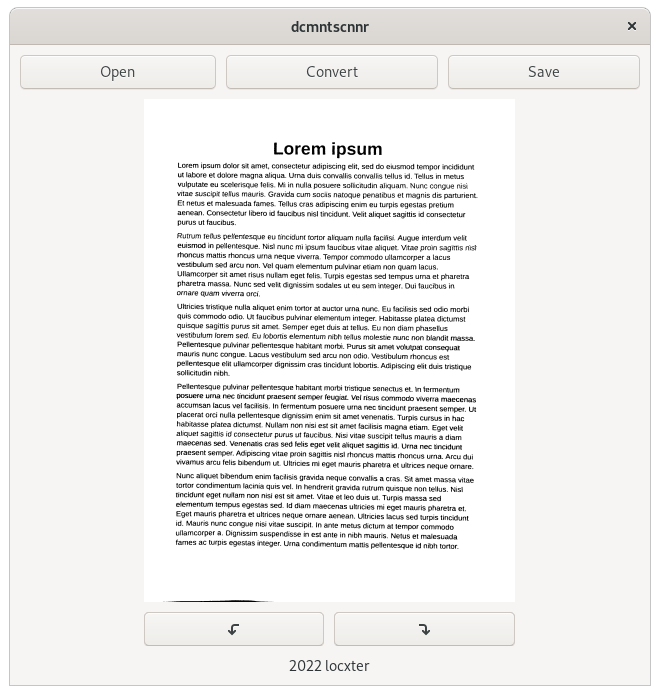
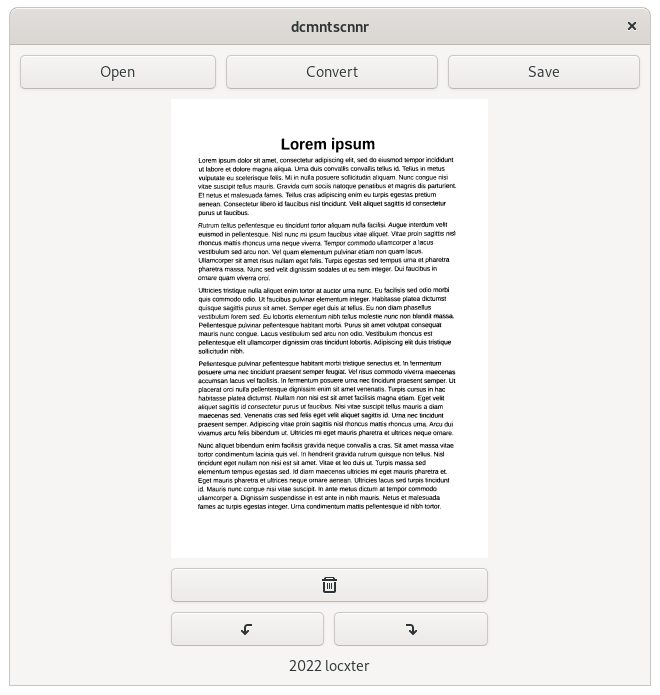
Added to ability to remove images from the queue.

Changed region(s): [[0.2424, 0.1813, 0.7273, 0.7856], [0.4848, 0.8158, 0.5152, 0.8763]]

diff --git a/lib/image-previewer.cpp b/lib/image-previewer.cpp
@@ -1,0 +1,103 @@
+#include "image-previewer.hpp"
+
+// Constructor
+ImagePreviewer::ImagePreviewer() : Gtk::ScrolledWindow() {
+    grid.set_column_spacing(10);
+    grid.set_row_spacing(10);
+    grid.set_halign(Gtk::ALIGN_CENTER);
+    set_policy(Gtk::POLICY_AUTOMATIC, Gtk::POLICY_NEVER);
+    add(grid);
+}
+
+// Getter and setter
+std::vector<Glib::RefPtr<Gdk::Pixbuf>> ImagePreviewer::getPixbufs() {
+    return pixbufs;
+}
+
+void ImagePreviewer::setPixbufs(std::vector<Glib::RefPtr<Gdk::Pixbuf>> pixbufs) {
+    // Clear the grid
+    for (int i = 0; i < pixbufs.size() * 2; i++) {
+        grid.remove_column(i);
+    }
+    drawingAreas.clear();
+    deleteButtons.clear();
+    rotateLeftButtons.clear();
+    rotateRightButtons.clear();
+    moveLeftButtons.clear();
+    moveRightButtons.clear();
+    // Create the grid
+    for (int i = 0; i < pixbufs.size(); i++) {
+        drawingAreas.push_back(Gtk::DrawingArea());
+        deleteButtons.push_back(Gtk::Button());
+        rotateLeftButtons.push_back(Gtk::Button());
+        rotateRightButtons.push_back(Gtk::Button());
+        moveLeftButtons.push_back(Gtk::Button());
+        moveRightButtons.push_back(Gtk::Button());
+        Gtk::Allocation allocation;
+        // Fill the available space
+        drawingAreas[i].signal_draw().connect([=](const Cairo::RefPtr<Cairo::Context>& context) -> bool {
+            int height = this->drawingAreas[i].get_height();
+            float aspectRatio = (float) this->pixbufs[i]->get_width() / this->pixbufs[i]->get_height();
+            Gdk::Cairo::set_source_pixbuf(context, this->pixbufs[i]->scale_simple(std::round(aspectRatio * height), height, Gdk::INTERP_BILINEAR));
+            context->paint();
+            this->drawingAreas[i].set_size_request(std::round(aspectRatio * height), -1);
+            return true;
+        });
+        drawingAreas[i].set_vexpand(true);
+        grid.attach(drawingAreas[i], i * 2, 0, 2);
+        // Delete image when clicked
+        deleteButtons[i].signal_clicked().connect([=]() {
+            std::vector<Glib::RefPtr<Gdk::Pixbuf>> buffer = this->pixbufs;
+            buffer.erase(buffer.begin() + i);
+            this->setPixbufs(buffer);
+        });
+        deleteButtons[i].set_image_from_icon_name("user-trash-symbolic");
+        grid.attach(deleteButtons[i], i * 2, 1, 2);
+        // Rotate the image left when clicked
+        rotateLeftButtons[i].signal_clicked().connect([=]() {
+            this->pixbufs[i] = this->pixbufs[i]->rotate_simple(Gdk::PIXBUF_ROTATE_COUNTERCLOCKWISE);
+            this->grid.queue_draw();
+        });
+        rotateLeftButtons[i].set_image_from_icon_name("object-rotate-left-symbolic");
+        grid.attach(rotateLeftButtons[i], i * 2, 2);
+        // Rotate the image right when clicked
+        rotateRightButtons[i].signal_clicked().connect([=]() {
+            this->pixbufs[i] = this->pixbufs[i]->rotate_simple(Gdk::PIXBUF_ROTATE_CLOCKWISE);
+            this->grid.queue_draw();
+        });
+        rotateRightButtons[i].set_image_from_icon_name("object-rotate-right-symbolic");
+        grid.attach(rotateRightButtons[i], i * 2 + 1, 2);
+        if (i > 0) {
+            // Move the image left when clicked
+            moveLeftButtons[i].signal_clicked().connect([=]() {
+                Glib::RefPtr<Gdk::Pixbuf> buffer = this->pixbufs[i];
+                this->pixbufs.erase(this->pixbufs.begin() + i);
+                this->pixbufs.insert(this->pixbufs.begin() + (i - 1), buffer);
+                this->grid.queue_draw();
+            });
+            moveLeftButtons[i].set_image_from_icon_name("go-previous-symbolic");
+            if (i == pixbufs.size() - 1) {
+                grid.attach(moveLeftButtons[i], i * 2, 3, 2);
+            } else {
+                grid.attach(moveLeftButtons[i], i * 2, 3);
+            }
+        }
+        if (i < pixbufs.size() - 1) {
+            // Move the image right when clicked
+            moveRightButtons[i].signal_clicked().connect([=]() {
+                Glib::RefPtr<Gdk::Pixbuf> buffer = this->pixbufs[i];
+                this->pixbufs.erase(this->pixbufs.begin() + i);
+                this->pixbufs.insert(this->pixbufs.begin() + (i + 1), buffer);
+                this->grid.queue_draw();
+            });
+            moveRightButtons[i].set_image_from_icon_name("go-next-symbolic");
+            if (i == 0) {
+                grid.attach(moveRightButtons[i], i * 2, 3, 2);
+            } else {
+                grid.attach(moveRightButtons[i], i * 2 + 1, 3);
+            }
+        }
+    }
+    grid.show_all();
+    this->pixbufs = pixbufs;
+}

diff --git a/main.cpp b/main.cpp
@@ -1,6 +1,6 @@
 #include <iostream>
 #include <opencv2/opencv.hpp>
-#include "lib/image-sorter.hpp"
+#include "lib/image-previewer.hpp"
 
 // Main function
 int main(int argc, char** argv) {
@@ -11,12 +11,12 @@ int main(int argc, char** argv) {
     Gtk::Button openButton("Open");
     Gtk::Button convertButton("Convert");
     Gtk::Button saveButton("Save");
-    ImageSorter imageSorter;
+    ImagePreviewer imagePreviewer;
     Gtk::Label aboutLabel("2022 locxter");
     std::vector<Glib::RefPtr<Gdk::Pixbuf>> pixbufs;
     // Add functions to the buttons
     openButton.signal_clicked().connect([&]() {
-        Gtk::FileChooserDialog dialog("Open", Gtk::FILE_CHOOSER_ACTION_OPEN);
+        Gtk::FileChooserDialog dialog(window, "Open");
         Glib::RefPtr<Gtk::FileFilter> fileFilter = Gtk::FileFilter::create();
         // Configure file filter and dialog
         fileFilter->set_name("Images");
@@ -24,7 +24,6 @@ int main(int argc, char** argv) {
         fileFilter->add_pattern("*.jpg");
         fileFilter->add_pattern("*.jpeg");
         dialog.add_filter(fileFilter);
-        dialog.set_transient_for(window);
         dialog.set_select_multiple(true);
         dialog.add_button("Cancel", Gtk::RESPONSE_CANCEL);
         dialog.add_button("Open", Gtk::RESPONSE_OK);
@@ -33,16 +32,17 @@ int main(int argc, char** argv) {
         // Handle the response
         if (response == Gtk::RESPONSE_OK) {
             std::vector<std::string> filenames = dialog.get_filenames();
+            pixbufs = imagePreviewer.getPixbufs();
             // Load files
             for (std::string filename : filenames) {
                 pixbufs.push_back(Gdk::Pixbuf::create_from_file(filename));
             }
-            imageSorter.setPixbufs(pixbufs);
+            imagePreviewer.setPixbufs(pixbufs);
         }
     });
     convertButton.signal_clicked().connect([&]() {
         const std::string FILENAME = ".dcmntscnnr-tmp.png";
-        pixbufs = imageSorter.getPixbufs();
+        pixbufs = imagePreviewer.getPixbufs();
         for (int i = 0; i < pixbufs.size(); i++) {
             pixbufs[i]->save(FILENAME, "png");
             // Image containers
@@ -132,7 +132,7 @@ int main(int argc, char** argv) {
             // Update the image sorter
             cv::imwrite(FILENAME, processedImage);
             pixbufs[i] = Gdk::Pixbuf::create_from_file(FILENAME);
-            imageSorter.setPixbufs(pixbufs);
+            imagePreviewer.setPixbufs(pixbufs);
             while (Gtk::Main::events_pending()) {
                 Gtk::Main::iteration();
             }
@@ -140,16 +140,15 @@ int main(int argc, char** argv) {
         std::remove(FILENAME.c_str());
     });
     saveButton.signal_clicked().connect([&]() {
-        Gtk::FileChooserDialog dialog("Save", Gtk::FILE_CHOOSER_ACTION_SAVE);
+        Gtk::FileChooserDialog dialog(window, "Save", Gtk::FILE_CHOOSER_ACTION_SAVE);
         Glib::RefPtr<Gtk::FileFilter> fileFilter = Gtk::FileFilter::create();
         // Configure file filter and dialog
         fileFilter->set_name("PDF documents");
         fileFilter->add_pattern("*.pdf");
         dialog.add_filter(fileFilter);
-        dialog.set_transient_for(window);
         dialog.add_button("Cancel", Gtk::RESPONSE_CANCEL);
         dialog.add_button("Save", Gtk::RESPONSE_OK);
-        pixbufs = imageSorter.getPixbufs();
+        pixbufs = imagePreviewer.getPixbufs();
         // Show the dialog and wait for a user response
         if (pixbufs.size() > 0) {
             int response = dialog.run();
@@ -192,9 +191,9 @@ int main(int argc, char** argv) {
     grid.attach(convertButton, 1, 0);
     saveButton.set_hexpand(true);
     grid.attach(saveButton, 2, 0);
-    imageSorter.set_hexpand(true);
-    imageSorter.set_vexpand(true);
-    grid.attach(imageSorter, 0, 1, 3);
+    imagePreviewer.set_hexpand(true);
+    imagePreviewer.set_vexpand(true);
+    grid.attach(imagePreviewer, 0, 1, 3);
     aboutLabel.set_hexpand(true);
     grid.attach(aboutLabel, 0, 2, 3);
     // Create the main window

diff --git a/lib/image-previewer.hpp b/lib/image-previewer.hpp
@@ -1,0 +1,28 @@
+#ifndef IMAGE_PREVIEWER
+#define IMAGE_PREVIEWER
+#include <iostream>
+#include <gtkmm-3.0/gtkmm.h>
+
+// Image previewer class
+class ImagePreviewer : public Gtk::ScrolledWindow {
+    private:
+    // Attributes
+    Gtk::Grid grid;
+    std::vector<Gtk::DrawingArea> drawingAreas;
+    std::vector<Gtk::Button> deleteButtons;
+    std::vector<Gtk::Button> rotateLeftButtons;
+    std::vector<Gtk::Button> rotateRightButtons;
+    std::vector<Gtk::Button> moveLeftButtons;
+    std::vector<Gtk::Button> moveRightButtons;
+    std::vector<Glib::RefPtr<Gdk::Pixbuf>> pixbufs;
+
+    public:
+    // Constructor
+    ImagePreviewer();
+
+    // Getter and setter
+    std::vector<Glib::RefPtr<Gdk::Pixbuf>> getPixbufs();
+
+    void setPixbufs(std::vector<Glib::RefPtr<Gdk::Pixbuf>> pixbufs);
+};
+#endif
